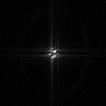
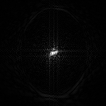
Implement the finer details of CryoSPARC

Changed region(s): [[0.3962, 0.3679, 0.6509, 0.6792]]

diff --git a/scripts/cryoSPARC.m b/scripts/cryoSPARC.m
@@ -1,3 +1,4 @@
+digits(100);
 % Get the image.
 P = phantom(200);
 
@@ -8,7 +9,7 @@ P = imresize(P, 0.5);
 P = padarray(P, [3, 3], 0.0);
 
 % Constants.
-sigmaNoiseFraction = 0.00;
+sigmaNoiseFraction = 0.05;
 filename = ...
 	'../results/cryoSPARC/5_percent_noise/';
 num_theta = 180;
@@ -17,9 +18,11 @@ max_angle_err = 1;
 resolution_angle = 1;
 resolution_space = 1;
 L_pad = 260; 
-no_of_iterations = 25;
+no_of_iterations = 10;
 momentum_parameter = 0.9;
 gamma = 0.9999;
+number_of_samples = zeros(no_of_iterations, 1);
+number_of_samples(1) = 30;
 
 % Things to write in the observation file.
 theta_to_write = zeros(10, num_theta);
@@ -52,11 +55,15 @@ first_estimate_shifts = zeros(size(theta));
 % Size of fourier domain.
 f_size = 625;
 
+% Initialize parameters needed for searching in the space.
+prior_parameters = PriorParameters(max_angle_err, max_shift_err,...
+    resolution_angle, resolution_space);
+
 % Randomly initialize the initial model with std_deviation = 5
 std_deviation = 5;
 f_image_estimate = ...
 	std_deviation*randn(f_size*f_size, 1) + i*std_deviation*randn(f_size*f_size, 1);
-prior_variance = repmat(std_deviation.^2*10, size(f_image_estimate, 1), 1);
+prior_variance = repmat(std_deviation.^2*50, size(f_image_estimate, 1), 1);
 
 % Make the first estimate in the fourier and the spatial domain.
 fourier_radial = reshape(f_image_estimate, [f_size f_size]);
@@ -72,19 +79,17 @@ height = size(fourier_radial, 1);
 width = size(fourier_radial, 2);
 projection_length = size(f_projections, 1);
 
-% Noise estimate.
-noise_estimate = zeros(projection_length, num_theta);
-parfor k=1:num_theta
-	c_proj = project_fourier_alternate(fourier_radial,...
-		first_estimate_theta(k), first_estimate_shifts(k), projection_length);
-	f_proj = f_projections(:, k);
-	noise_estimate(:, k) = 0.5*abs(c_proj - f_proj).^2;
-end
-noise_estimate = mean(noise_estimate, 2);
+first_noise_estimate = repmat(1/(sigmaNoise.^2)*3100, projection_length, 1);
 
 % Initialize projection parameters object.
 projection_parameters = ...
 	ProjectionParameters(width, height, output_size, projection_length);
+
+% Noise estimate.
+noise_estimate = zeros(projection_length, 1);
+noise_estimate(:, 1) = average_reconstruction_error(f_image_estimate,...
+    f_projections, first_estimate_theta, first_estimate_shifts,...
+    projection_parameters, prior_parameters, first_noise_estimate);
 
 % Show the first estimate image.
 figure; imshow(first_estimate_model, []);
@@ -103,72 +108,84 @@ momentum_gradient = zeros(size(f_image_estimate));
 
 % Start the Stochastic Gradient Descent.
 for q=1:no_of_iterations
-% 	% Noise estimate for this iteration.
-% 	w_q = zeros(size(noise_estimate));
-% 	sigma_bar_q = zeros(size(noise_estimate));
-% 	w_hat_q = 2500*(gamma^q);
-% 	sigma_bar = 1/(sigmaNoise.^2);
-% 	sigmaHat = 8*sigma_bar;
-% 	for i=1:q
-% 		w_q = w_q + ones(size(noise_estimate)).*gamma^(q-i)*30;
-% 		sigma_bar_q = sigma_bar_q + gamma^(q-i).*30.*noise_estimate;
-% 	end
-% 	noise_variance = ...
-% 		w_q.*sigma_bar_q + 50*sigma_bar + sigmaHat*w_hat_q./(w_q + 50 + w_hat_q);
-    noise_variance = noise_estimate;
+	% Noise estimate for this iteration.
+	w_q = zeros(size(noise_estimate, 1), 1);
+	sigma_bar_q = zeros(size(noise_estimate, 1), 1);
+	w_hat_q = 1*(gamma^q);
+	sigma_bar = 1/(sigmaNoise.^2)*3100;
+	sigmaHat = 1*sigma_bar;
+	for i=1:q
+		w_q = w_q +...
+            ones(size(noise_estimate, 1), 1).*gamma^(q-i)*number_of_samples(i);
+		sigma_bar_q = sigma_bar_q + noise_estimate(:, i).*gamma^(q-i);
+	end
+	noise_variance = ...
+		vpa((w_q.*sigma_bar_q + 50*sigma_bar + sigmaHat*w_hat_q)./...
+        (w_q + 50 + w_hat_q));
 	
 	% Randomly select some projections.
-	[sel_projections, idx] = datasample(f_projections, 30, 2, 'Replace', false);
+	[sel_projections, idx] =...
+        datasample(f_projections, number_of_samples(q), 2,...
+        'Replace', false);
 	selected_angles = first_estimate_theta(idx);
 	shifts = zeros(size(selected_angles));
 
-	% Initialize parameters needed for searching in the space.
-	prior_parameters = PriorParameters(max_angle_err, max_shift_err,...
-		resolution_angle, resolution_space);
-
 	% The gradient vector for this iteration.
-	gradient_vector_iter = zeros(size(f_image_estimate));
-	
+	gradient_vector_iter = zeros(size(f_image_estimate));	
 	noisy_step_vector_iter = zeros(size(f_image_estimate));
+    
+    % Calculate the probability of each projection.
+    U = zeros(size(sel_projections, 2), 1);
+    for i=1:size(sel_projections, 2)
+        % The orientation specified for this iteration.
+        estimated_orientation = Orientation(selected_angles(i), 0);
+        
+        % Probability of the projection given the model.
+        U(i) = ...
+            calc_prob_projection(sel_projections(:, i),...
+            f_image_estimate, estimated_orientation, noise_variance,...
+            projection_parameters, prior_parameters);
+    end
 
 	for j=-max_angle_err:resolution_angle:max_angle_err
-		thetas_iter = mod(selected_angles  + j, 180);
-
+        
+		thetas_iter = selected_angles  + j;
 		projections_iter = zeros(size(sel_projections));
 		noisy_iter = zeros(size(sel_projections));
+        
 		for i=1:size(sel_projections, 2)
 			% Orientation of the projection for this iteration.
 			orientation = Orientation(thetas_iter(i), 0);
 
-			% The orientation specified for this iteration.
-			estimated_orientation = Orientation(selected_angles(i), 0);
-
-			% Probability of the projection given the model.
-			U_i = calc_prob_projection(sel_projections(:, i), f_image_estimate,...
-				estimated_orientation, noise_variance, projection_parameters,...
-				prior_parameters);
-
 			% Calculate the prob of projection given orientation and model.
-			prob_proj = prob_of_proj_given_orientation(sel_projections(:, i),...
-				f_image_estimate, orientation, noise_variance, projection_parameters);
+			prob_proj = ...
+                prob_of_proj_given_orientation(sel_projections(:, i),...
+				f_image_estimate, orientation, noise_variance,...
+                projection_parameters);
 
 			% Difference between given projection and calculated projection.
 			f_image_reshaped =...
 				reshape(f_image_estimate, [output_size, output_size]);
-			diff_proj =  sel_projections(:, i) - project_fourier_alternate(...
+			diff_proj =  ...
+                sel_projections(:, i) - project_fourier_alternate(...
 				f_image_reshaped, thetas_iter(i), 0, projection_length);
-
-			prob_phi = 1;
+            
+            % The probability of each orientation.
+			prob_phi = 1/((2*max_angle_err)/resolution_angle + 1);
+            
+            % Save projections to find gradient and step-size.
 			projections_iter(:, i) = ...
-				(prob_proj/U_i).*(diff_proj./noise_variance).*prob_phi;
-		
+				vpa((prob_proj/U(i)).*(diff_proj./noise_variance)*...
+                prob_phi*resolution_angle);	
 			noisy_iter(:, i) = ...
-				(prob_proj/U_i).*(ones(size(diff_proj))./noise_variance).*prob_phi;
+				vpa((prob_proj/U(i)).*(ones(size(diff_proj))./noise_variance)*...
+                prob_phi*resolution_angle);
 		end
 		
 		% Calculate the gradient due to current estimate.
 		gradient_iter = ...
-			backproject_fourier_alternate(projections_iter, thetas_iter, shifts);
+			backproject_fourier_alternate(...
+            projections_iter, thetas_iter, shifts);
 		gradient_iter = gradient_iter(:);
 		
 		% Calculate the step size form noise.
@@ -177,10 +194,8 @@ for q=1:no_of_iterations
 		noisy_step_size = noisy_step_size(:);
 
 		% Compute the total gradient.
-		gradient_vector_iter = gradient_vector_iter + gradient_iter;
-		
-		noisy_step_vector_iter = noisy_step_vector_iter + noisy_step_size;
-		
+		gradient_vector_iter = gradient_vector_iter + gradient_iter;	
+		noisy_step_vector_iter = noisy_step_vector_iter + noisy_step_size;	
 	end
 	
 	% Calculate the gradient due to the prior distribution.
@@ -205,21 +220,22 @@ for q=1:no_of_iterations
 		reshape(f_image_estimate, [output_size, output_size]);
 	
 	% next noise estimate.
-	estimated_noise_vector = zeros(projection_length, num_theta);
-	parfor k=1:num_theta
-		c_proj = ...
-			project_fourier_alternate(f_image_estimate_reshaped,...
-			first_estimate_theta(k), first_estimate_shifts(k),...
-			projection_length);
-		f_proj = f_projections(:, k);
-		estimated_noise_vector(:, k) = 0.5*abs(c_proj - f_proj).^2;
-	end
-	noise_estimate = mean(estimated_noise_vector, 2);
+	next_noise_estimate = average_reconstruction_error(f_image_estimate,...
+    f_projections, first_estimate_theta, first_estimate_shifts,...
+    projection_parameters, prior_parameters, noise_variance);
+    noise_estimate = [noise_estimate next_noise_estimate];
 	
 	% Display the image and calculate the error.
 	image_estimate = Ifft2_2_Img(f_image_estimate_reshaped, L_pad);
 	figure; imshow(image_estimate, []);
 	disp(norm(image_estimate - P));
+    
+    % Update the number of samples for the next iteration.
+    if norm(image_estimate - P) < 10
+        number_of_samples(q+1) = 100;
+    else
+        number_of_samples(q+1) = 30;
+    end
     
     % Save the model and the image in the current iteration.
     error_plot(q+1) = norm(image_estimate - P);

diff --git a/scripts/average_reconstruction_error.m b/scripts/average_reconstruction_error.m
@@ -1,0 +1,54 @@
+function noise_estimate = average_reconstruction_error(f_image_estimate,...
+    f_projections, theta_estimate, shift_estimate,...
+    projection_parameters, prior_parameters, sigmaNoise)
+
+    % Constants
+    output_size = projection_parameters.output_size;
+    projection_length = projection_parameters.projection_length;
+    max_angle_err = prior_parameters.max_angle_err;
+    resolution_angle = prior_parameters.resolution_angle;
+    prob_phi = 1/((2*max_angle_err)/resolution_angle + 1);
+
+    fourier_radial = reshape(f_image_estimate, [output_size, output_size]);
+    
+    U = zeros(size(f_projections, 2), 1);
+    for i=1:size(f_projections, 2)
+        f_proj = f_projections(:, i);
+        % The orientation specified for this iteration.
+        estimated_orientation = Orientation(theta_estimate(i), 0);
+        
+        % Probability of the projection given the model.
+        U(i) = ...
+            calc_prob_projection(f_proj,...
+            f_image_estimate, estimated_orientation, sigmaNoise,...
+            projection_parameters, prior_parameters);
+    end
+    
+    % Initialize noise estimate.
+    noise_estimate = zeros(projection_length, size(f_projections, 2));     
+    for j=-max_angle_err:resolution_angle:max_angle_err
+        for k=1:size(f_projections, 2)
+            % Calculate the projection.
+            c_proj = project_fourier_alternate(fourier_radial,...
+                theta_estimate(k) + j, shift_estimate(k),...
+                projection_length);
+            f_proj = f_projections(:, k);
+            
+            % Orientation of the projection for this iteration.
+			orientation = Orientation(theta_estimate(k) + j, 0);
+            
+            % Calculate the prob of projection given orientation and model.
+			prob_proj = ...
+                prob_of_proj_given_orientation(f_proj,...
+				f_image_estimate, orientation, sigmaNoise,...
+                projection_parameters);
+            
+            % Calculate the probabiity of that projection.
+            noise_estimate(:, k) = noise_estimate(:, k) +...
+                vpa((prob_proj/U(k))*0.5*abs(c_proj - f_proj).^2*prob_phi*...
+                resolution_angle);
+        end
+    end
+    noise_estimate = vpa(mean(noise_estimate(:)));
+    noise_estimate = repmat(noise_estimate, projection_length, 1);
+end

diff --git a/scripts/prob_of_proj_given_orientation.m b/scripts/prob_of_proj_given_orientation.m
@@ -1,10 +1,18 @@
 function [prob, euler_dist] = prob_of_proj_given_orientation(f_proj, f_image,...
     orientation, sigmaNoise, projection_parameters)
+    
+    % Constants
     projection_length = projection_parameters.projection_length;
     output_size = projection_parameters.output_size;
+    
+    % Calculate the projection.
     f_image = reshape(f_image, [output_size, output_size]);
     c_proj = project_fourier_alternate(f_image,...
         orientation.theta, orientation.shift, projection_length);
+    
+    % Calculate the distance and the probability.
     euler_dist = norm(c_proj - f_proj);
-    prob = exp(vpa(sum(abs(f_proj - c_proj).^2./(-2*(sigmaNoise))))*1e-3);
+    cons = vpa(((1/(2*pi))^projection_length)*(1/prod(sigmaNoise/90000))*1e25);
+    prob = ...
+        cons*exp(vpa(sum((abs(f_proj - c_proj).^2)./(-2*(sigmaNoise))))*1e-2);
 end

diff --git a/scripts/calc_prob_projection.m b/scripts/calc_prob_projection.m
@@ -6,6 +6,8 @@ function prob = calc_prob_projection(...
 	max_angle_err = prior_parameters.max_angle_err;
 	resolution_angle = prior_parameters.resolution_angle;
 	angle_estimate = estimated_orientation.theta;
+    
+    prob_phi = 1/((2*max_angle_err)/resolution_angle + 1);
 
 	prob = 0;
 	for i=-max_angle_err:resolution_angle:max_angle_err
@@ -13,6 +15,6 @@ function prob = calc_prob_projection(...
 	        Orientation(angle_estimate + i, 0);
 		prob_orient = prob_of_proj_given_orientation(f_proj, f_image,...
             orientation, noise_estimate, projection_parameters);
-		prob = prob + prob_orient;
+		prob = prob + vpa(prob_orient*prob_phi*resolution_angle);
 	end
 end
